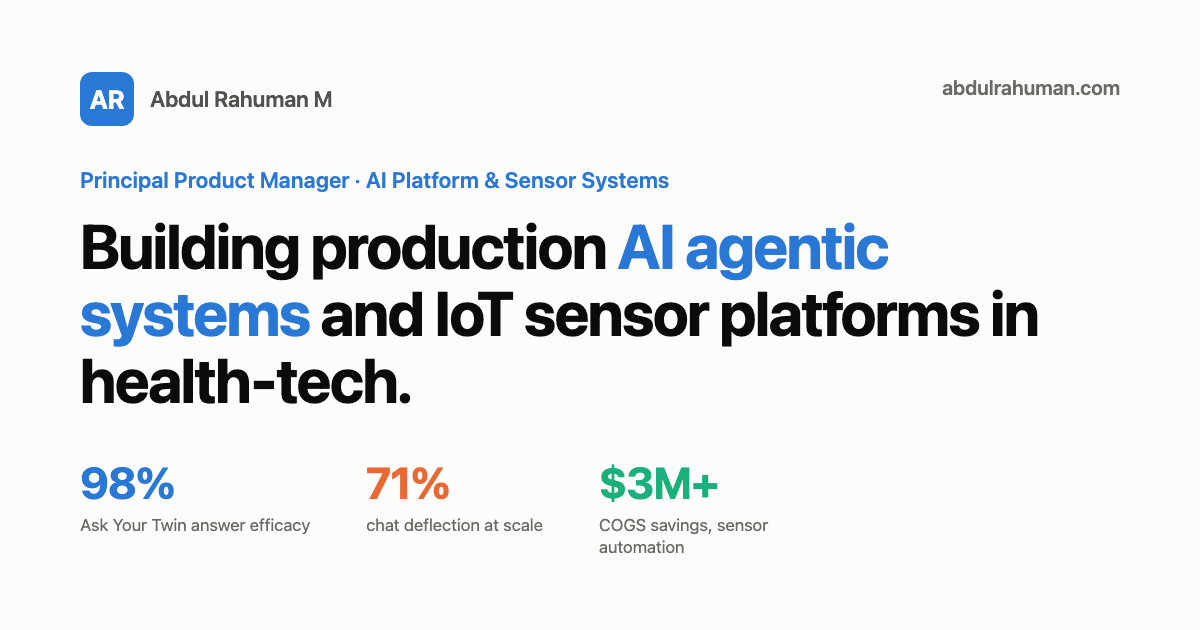
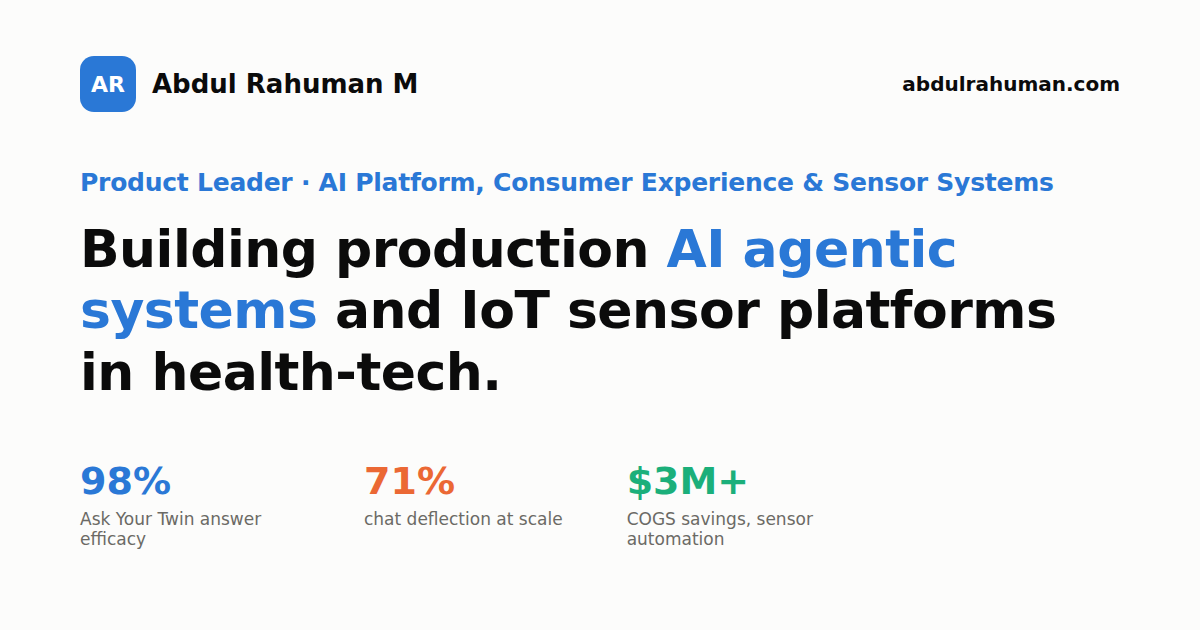
Regenerate OG thumbnail with Product Leader positioning; open contact CTA to Director/Group PM

diff --git a/index.html b/index.html
@@ -495,7 +495,7 @@
       <div class="reveal">
         <p class="eyebrow">Get in touch</p>
         <h2>Building something in AI or health-tech? Let's talk.</h2>
-        <p>Open to product leadership conversations — Principal/Staff PM roles, founding opportunities, or advisory work — in AI agentic systems, IoT/hardware platforms, and health-tech.</p>
+        <p>Open to product leadership conversations — Principal/Staff, Director, or Group PM roles, founding opportunities, or advisory work — in AI agentic systems, IoT/hardware platforms, and health-tech.</p>
         <div class="hero-actions">
           <a href="mailto:abdulrahumanfazi@gmail.com" class="btn btn-primary">abdulrahumanfazi@gmail.com</a>
           <a href="https://linkedin.com/in/MAbdulRahuman" class="btn btn-secondary" target="_blank" rel="noopener">LinkedIn ↗</a>
